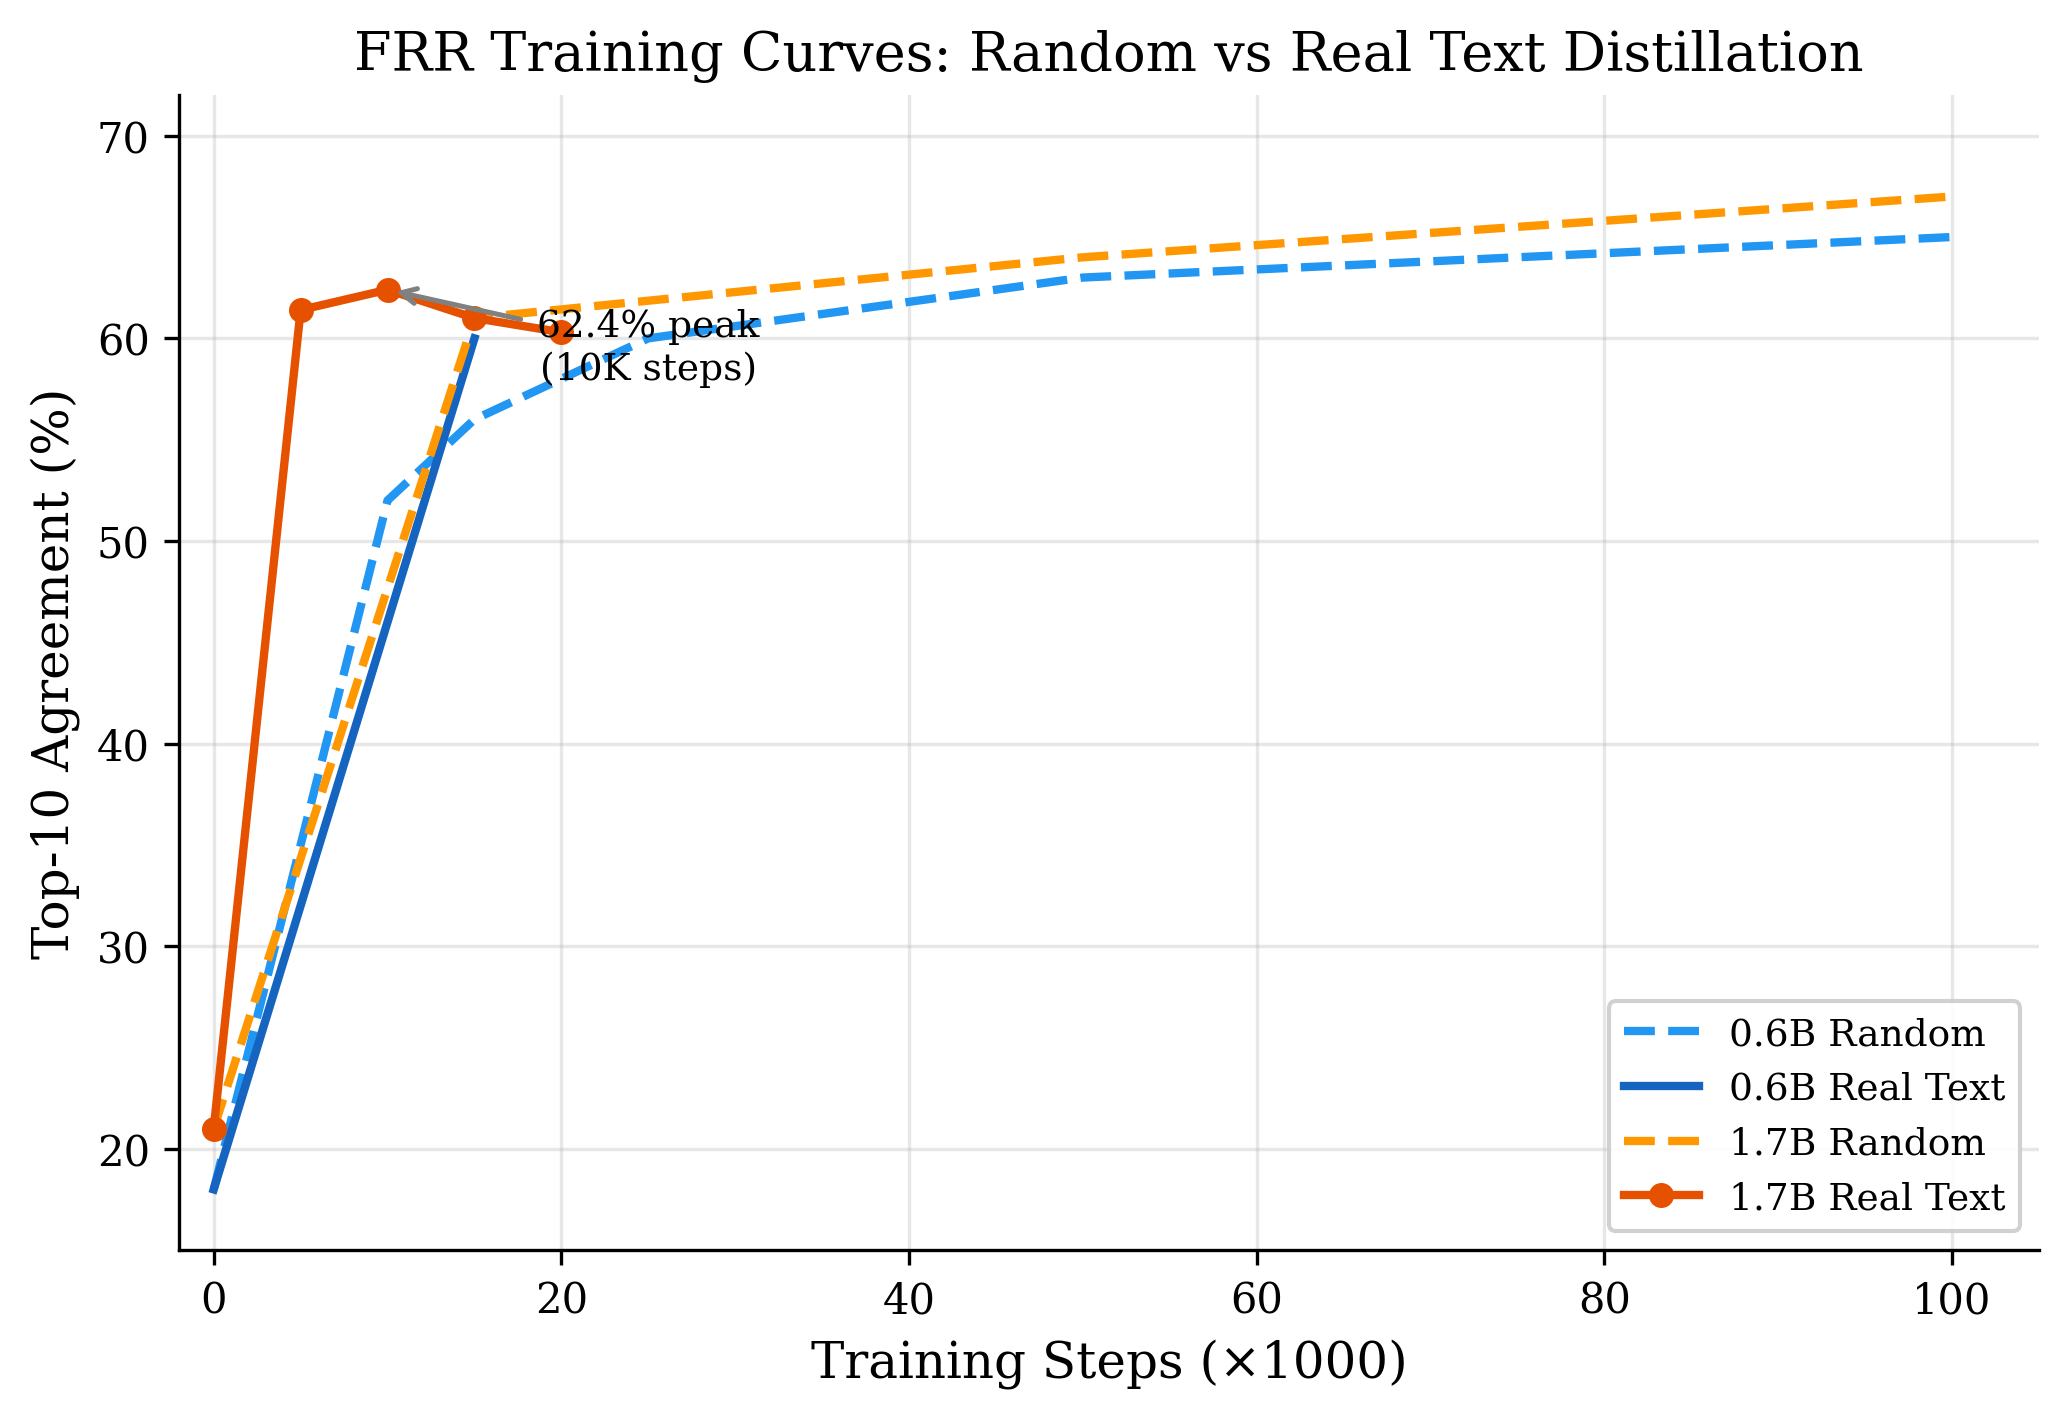
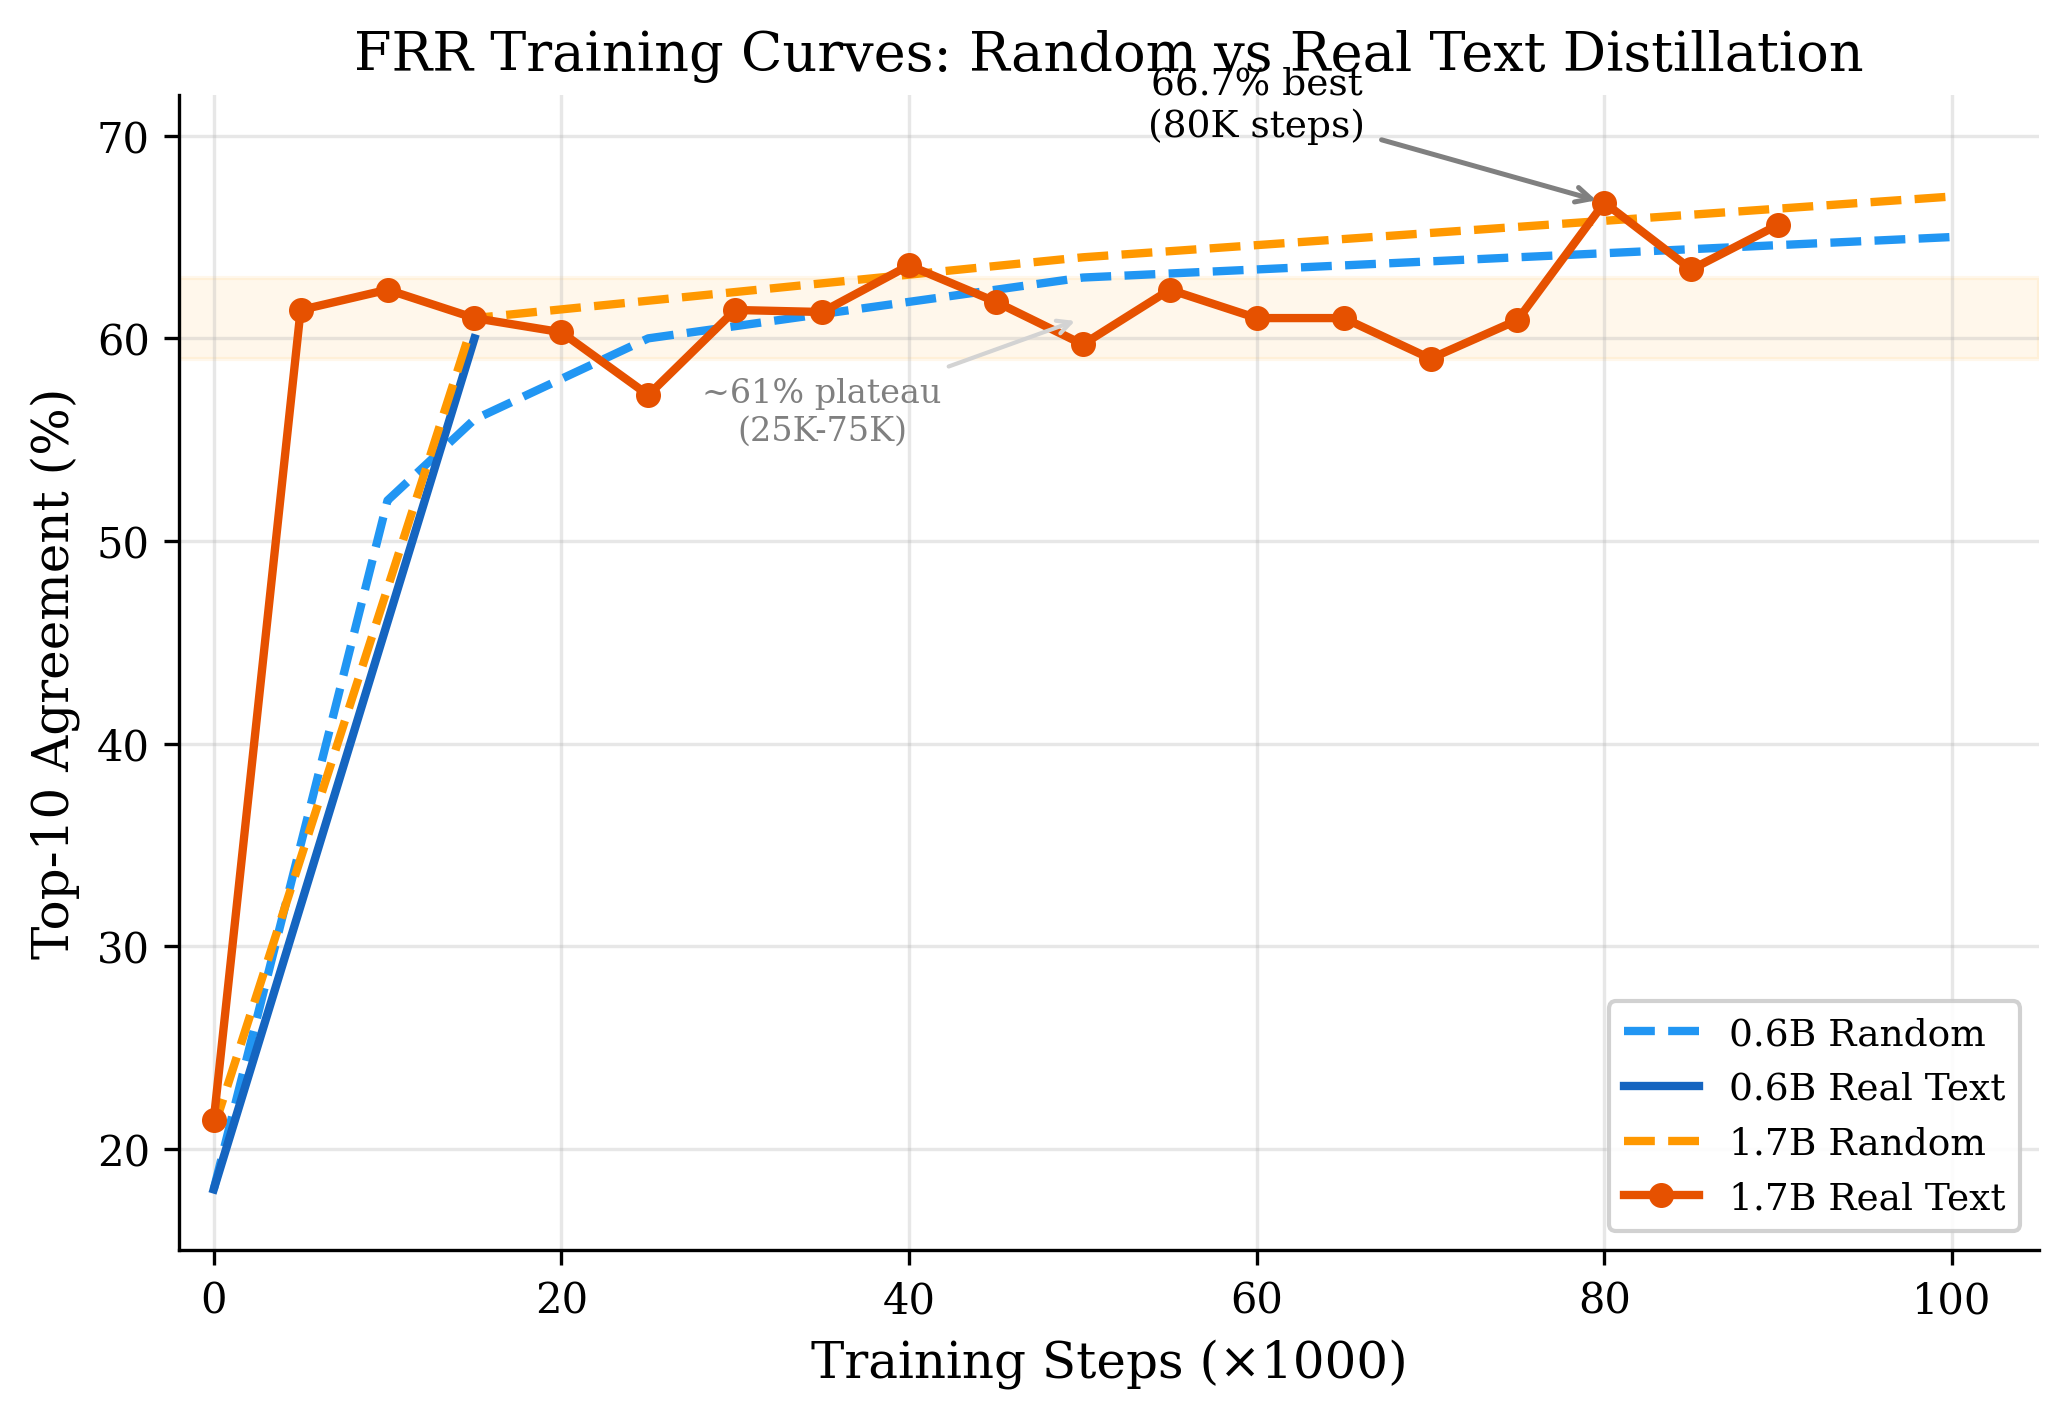
Fix paper figures: include full 90K training trajectory (was only showing 20K)

diff --git a/generate_paper_figures.py b/generate_paper_figures.py
@@ -81,8 +81,12 @@ curves_t10 = {
         'style': '--',
     },
     '1.7B Real Text': {
-        'steps': [0, 5_000, 10_000, 15_000, 20_000],
-        't10':   [21, 61.4,  62.4,   61.0,   60.3],
+        'steps': [0, 5_000, 10_000, 15_000, 20_000, 25_000, 30_000, 35_000,
+                  40_000, 45_000, 50_000, 55_000, 60_000, 65_000, 70_000,
+                  75_000, 80_000, 85_000, 90_000],
+        't10':   [21.4, 61.4, 62.4, 61.0, 60.3, 57.2, 61.4, 61.3,
+                  63.6, 61.8, 59.7, 62.4, 61.0, 61.0, 59.0,
+                  60.9, 66.7, 63.4, 65.6],
         'color': COLORS['1.7b_real'],
         'style': '-',
         'marker': 'o',
@@ -130,12 +134,21 @@ def fig1_training_curves():
             label=name,
         )
 
-    # Annotate the T10 peak and decline for 1.7B real text
+    # Annotate the 80K breakthrough for 1.7B real text
     ax.annotate(
-        '62.4% peak\n(10K steps)',
-        xy=(10, 62.4), xytext=(25, 58),
+        '66.7% best\n(80K steps)',
+        xy=(80, 66.7), xytext=(60, 70),
         fontsize=9, ha='center',
         arrowprops=dict(arrowstyle='->', color='gray', lw=1.2),
+    )
+
+    # Show the plateau region
+    ax.axhspan(59, 63, alpha=0.08, color='orange', label='_nolegend_')
+    ax.annotate(
+        '~61% plateau\n(25K-75K)',
+        xy=(50, 61), xytext=(35, 55),
+        fontsize=8, ha='center', color='gray',
+        arrowprops=dict(arrowstyle='->', color='lightgray', lw=1),
     )
 
     ax.set_xlabel('Training Steps (×1000)')
@@ -300,10 +313,18 @@ def fig5_temperature():
     fig, (ax1, ax2) = plt.subplots(1, 2, figsize=(10, 4.5))
 
     # 1.7B real text data: step, T10, temperature
-    steps = [0, 5000, 10000, 15000, 20000]
-    t10 = [21.4, 61.4, 62.4, 61.0, 60.3]
-    temps = [5.0, 4.8, 4.5, 4.2, 4.0]
-    loss = [561.9, 41.3, 37.6, 37.4, 37.2]
+    steps = [0, 5000, 10000, 15000, 20000, 25000, 30000, 35000,
+             40000, 45000, 50000, 55000, 60000, 65000, 70000,
+             75000, 80000, 85000, 90000]
+    t10 = [21.4, 61.4, 62.4, 61.0, 60.3, 57.2, 61.4, 61.3,
+           63.6, 61.8, 59.7, 62.4, 61.0, 61.0, 59.0,
+           60.9, 66.7, 63.4, 65.6]
+    temps = [5.0, 4.8, 4.5, 4.2, 4.0, 3.8, 3.5, 3.2,
+             3.0, 2.8, 2.5, 2.2, 2.0, 2.0, 2.0,
+             2.0, 2.0, 2.0, 2.0]
+    loss = [561.9, 41.3, 37.6, 37.4, 37.2, 37.9, 38.5, 38.9,
+            38.8, 42.1, 44.4, 47.5, 49.7, 50.4, 48.9,
+            49.1, 49.1, 48.5, 48.8]
 
     # Left: T10 and temperature vs steps
     color_t10 = COLORS['1.7b_real']
@@ -322,22 +343,27 @@ def fig5_temperature():
     ax1.tick_params(axis='y', labelcolor=color_t10)
     ax1_twin.tick_params(axis='y', labelcolor=color_temp)
 
-    # Mark the peak
-    ax1.annotate('Peak: 62.4%', xy=(10, 62.4), xytext=(15, 65),
+    # Mark the 80K breakthrough
+    ax1.annotate('Best: 66.7%\n(80K)', xy=(80, 66.7), xytext=(65, 70),
                  fontsize=9, ha='center',
                  arrowprops=dict(arrowstyle='->', color='gray', lw=1))
+    # Mark T at minimum
+    ax1.axvline(x=60, color='gray', linestyle=':', alpha=0.4, lw=1)
+    ax1.annotate('T=2.0 min', xy=(60, 55), fontsize=7, color='gray', ha='center')
 
     # Add legend combining both axes
     lines1, labels1 = ax1.get_legend_handles_labels()
     lines2, labels2 = ax1_twin.get_legend_handles_labels()
     ax1.legend(lines1 + lines2, labels1 + labels2, loc='lower right', fontsize=9)
 
-    # Right: Loss vs T10 (showing misalignment)
+    # Right: Loss vs T10 (showing misalignment) — skip step 0 (outlier)
     ax2.scatter(loss[1:], t10[1:], c=[temps[i] for i in range(1, len(temps))],
-                cmap='RdYlBu', s=100, edgecolors='black', linewidths=0.5, zorder=5)
+                cmap='RdYlBu', s=80, edgecolors='black', linewidths=0.5, zorder=5)
+    # Only label every 4th point to avoid clutter
     for i in range(1, len(steps)):
-        ax2.annotate(f'{steps[i]//1000}K', xy=(loss[i], t10[i]),
-                     xytext=(5, 5), textcoords='offset points', fontsize=8)
+        if i % 4 == 0 or steps[i] == 80000:
+            ax2.annotate(f'{steps[i]//1000}K', xy=(loss[i], t10[i]),
+                         xytext=(5, 5), textcoords='offset points', fontsize=7)
 
     ax2.set_xlabel('Training Loss')
     ax2.set_ylabel('T10 Agreement (%)')
